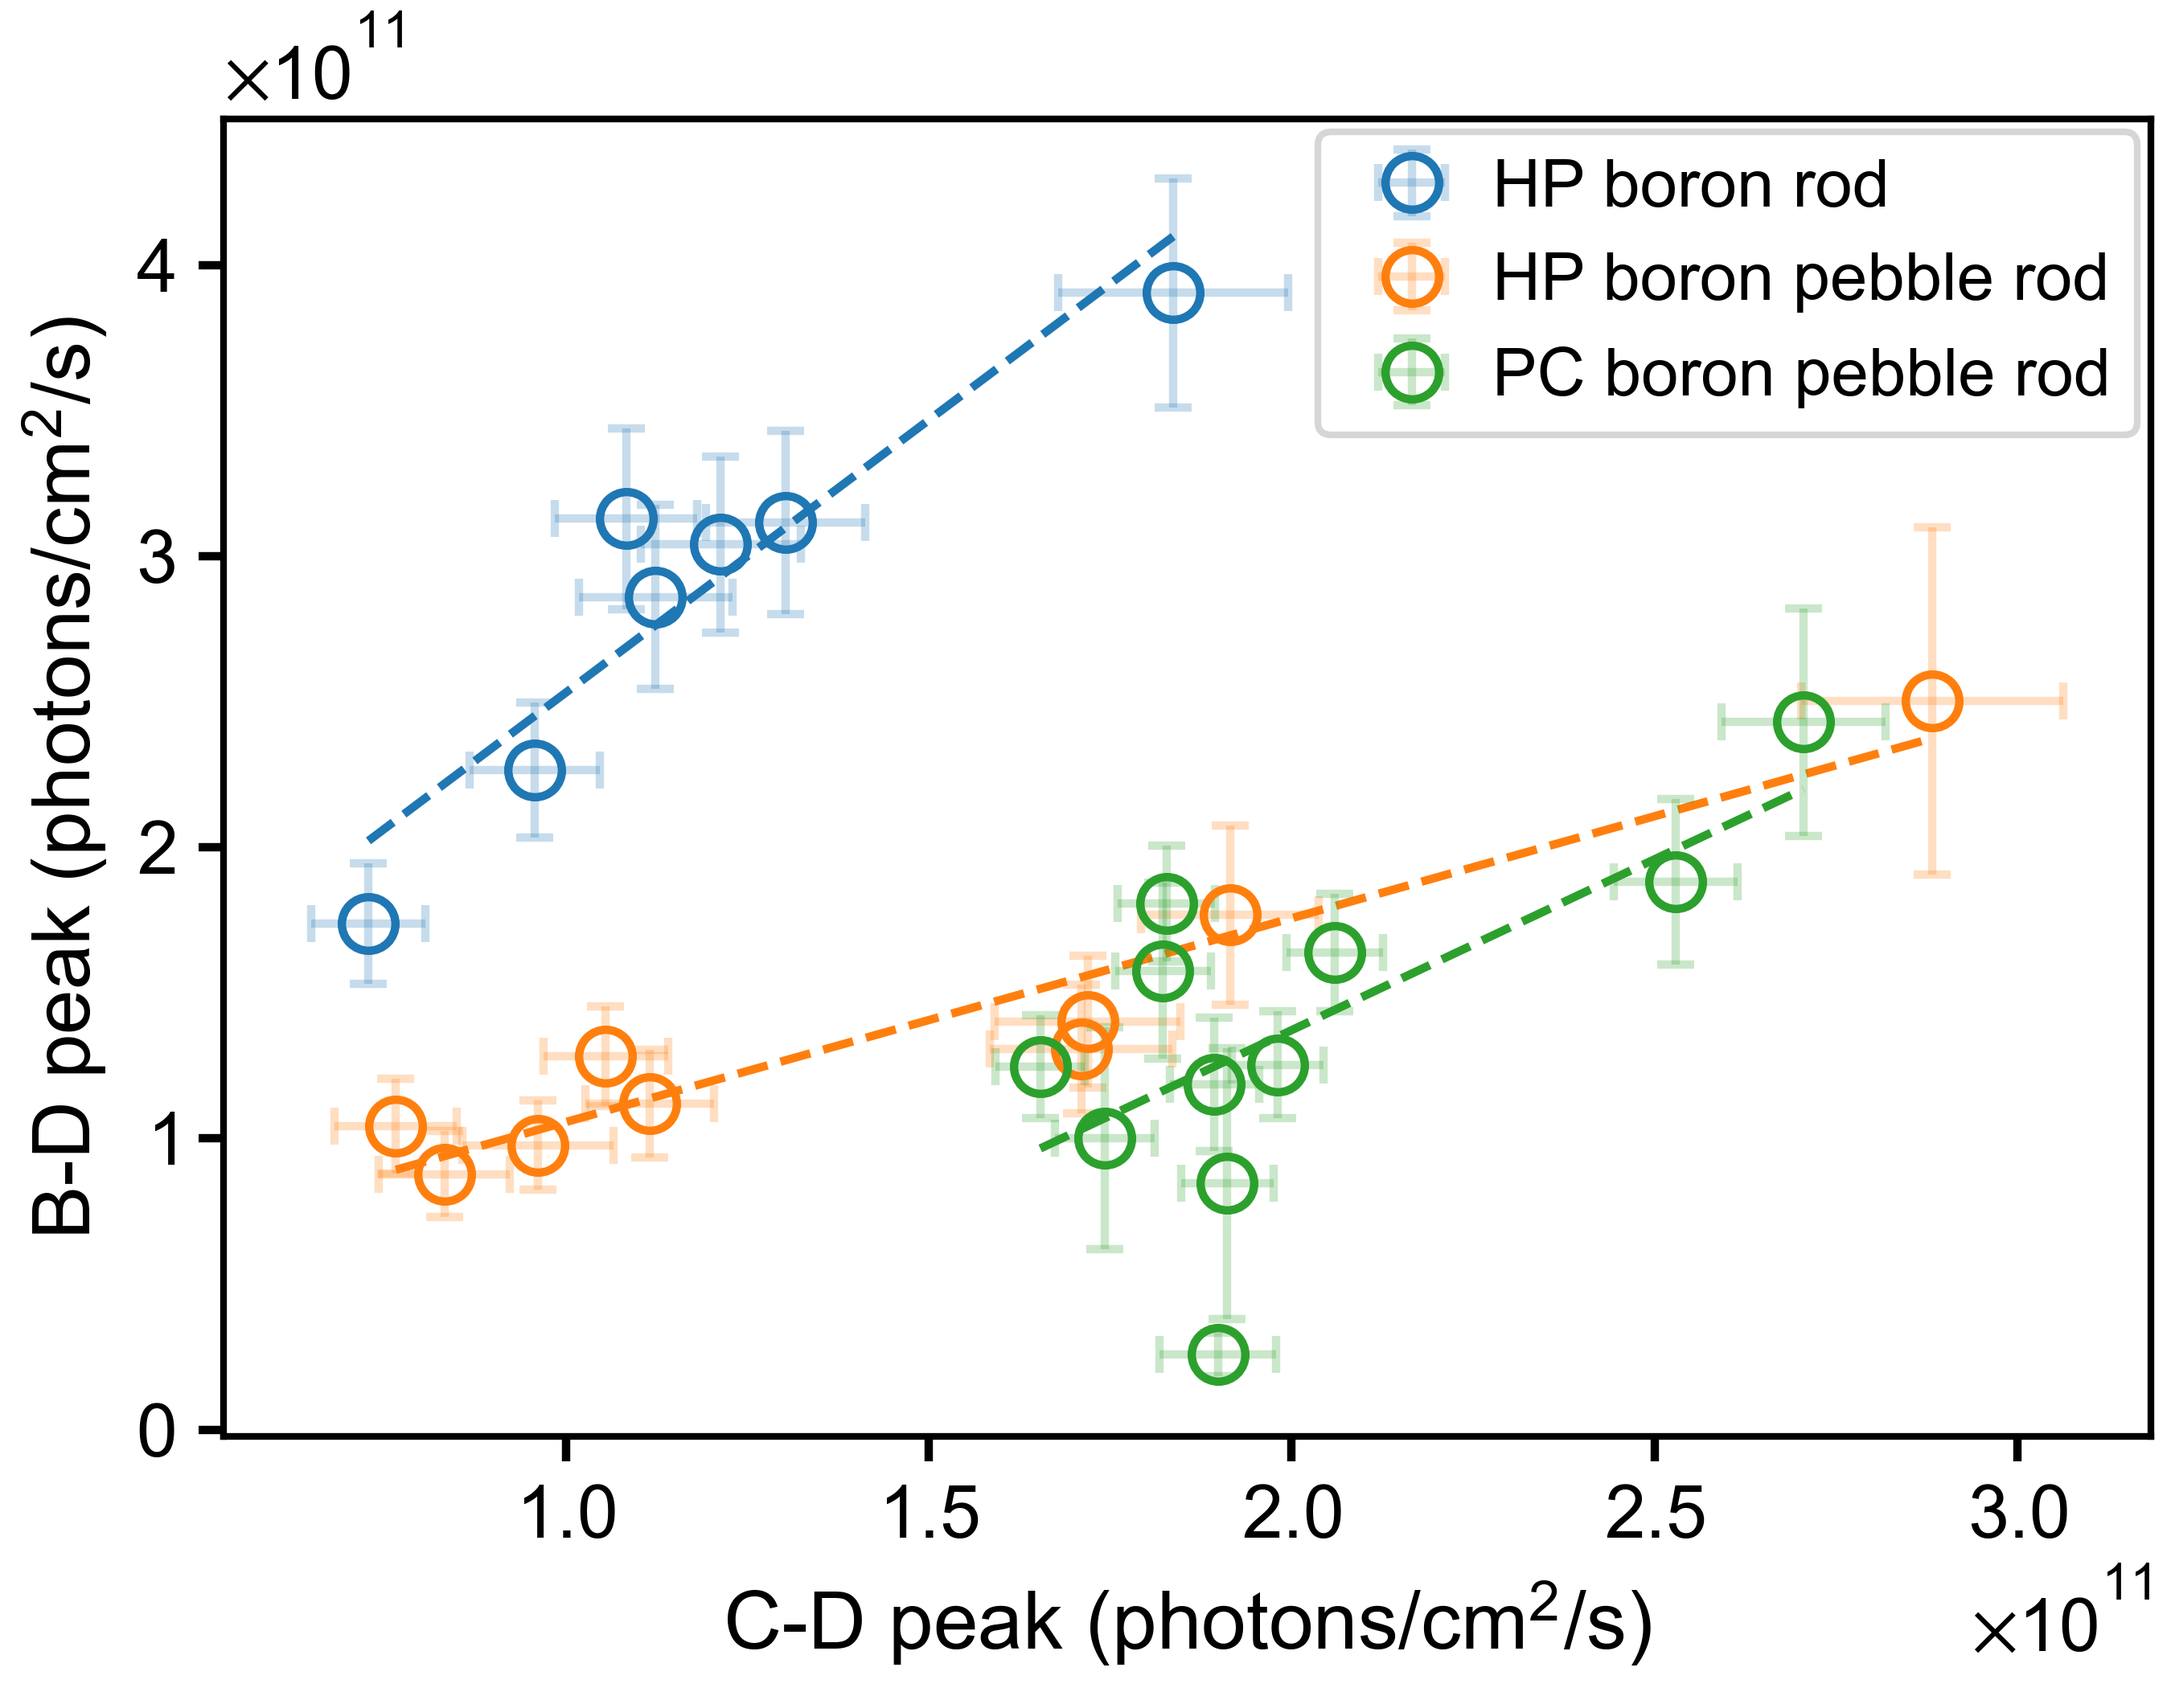
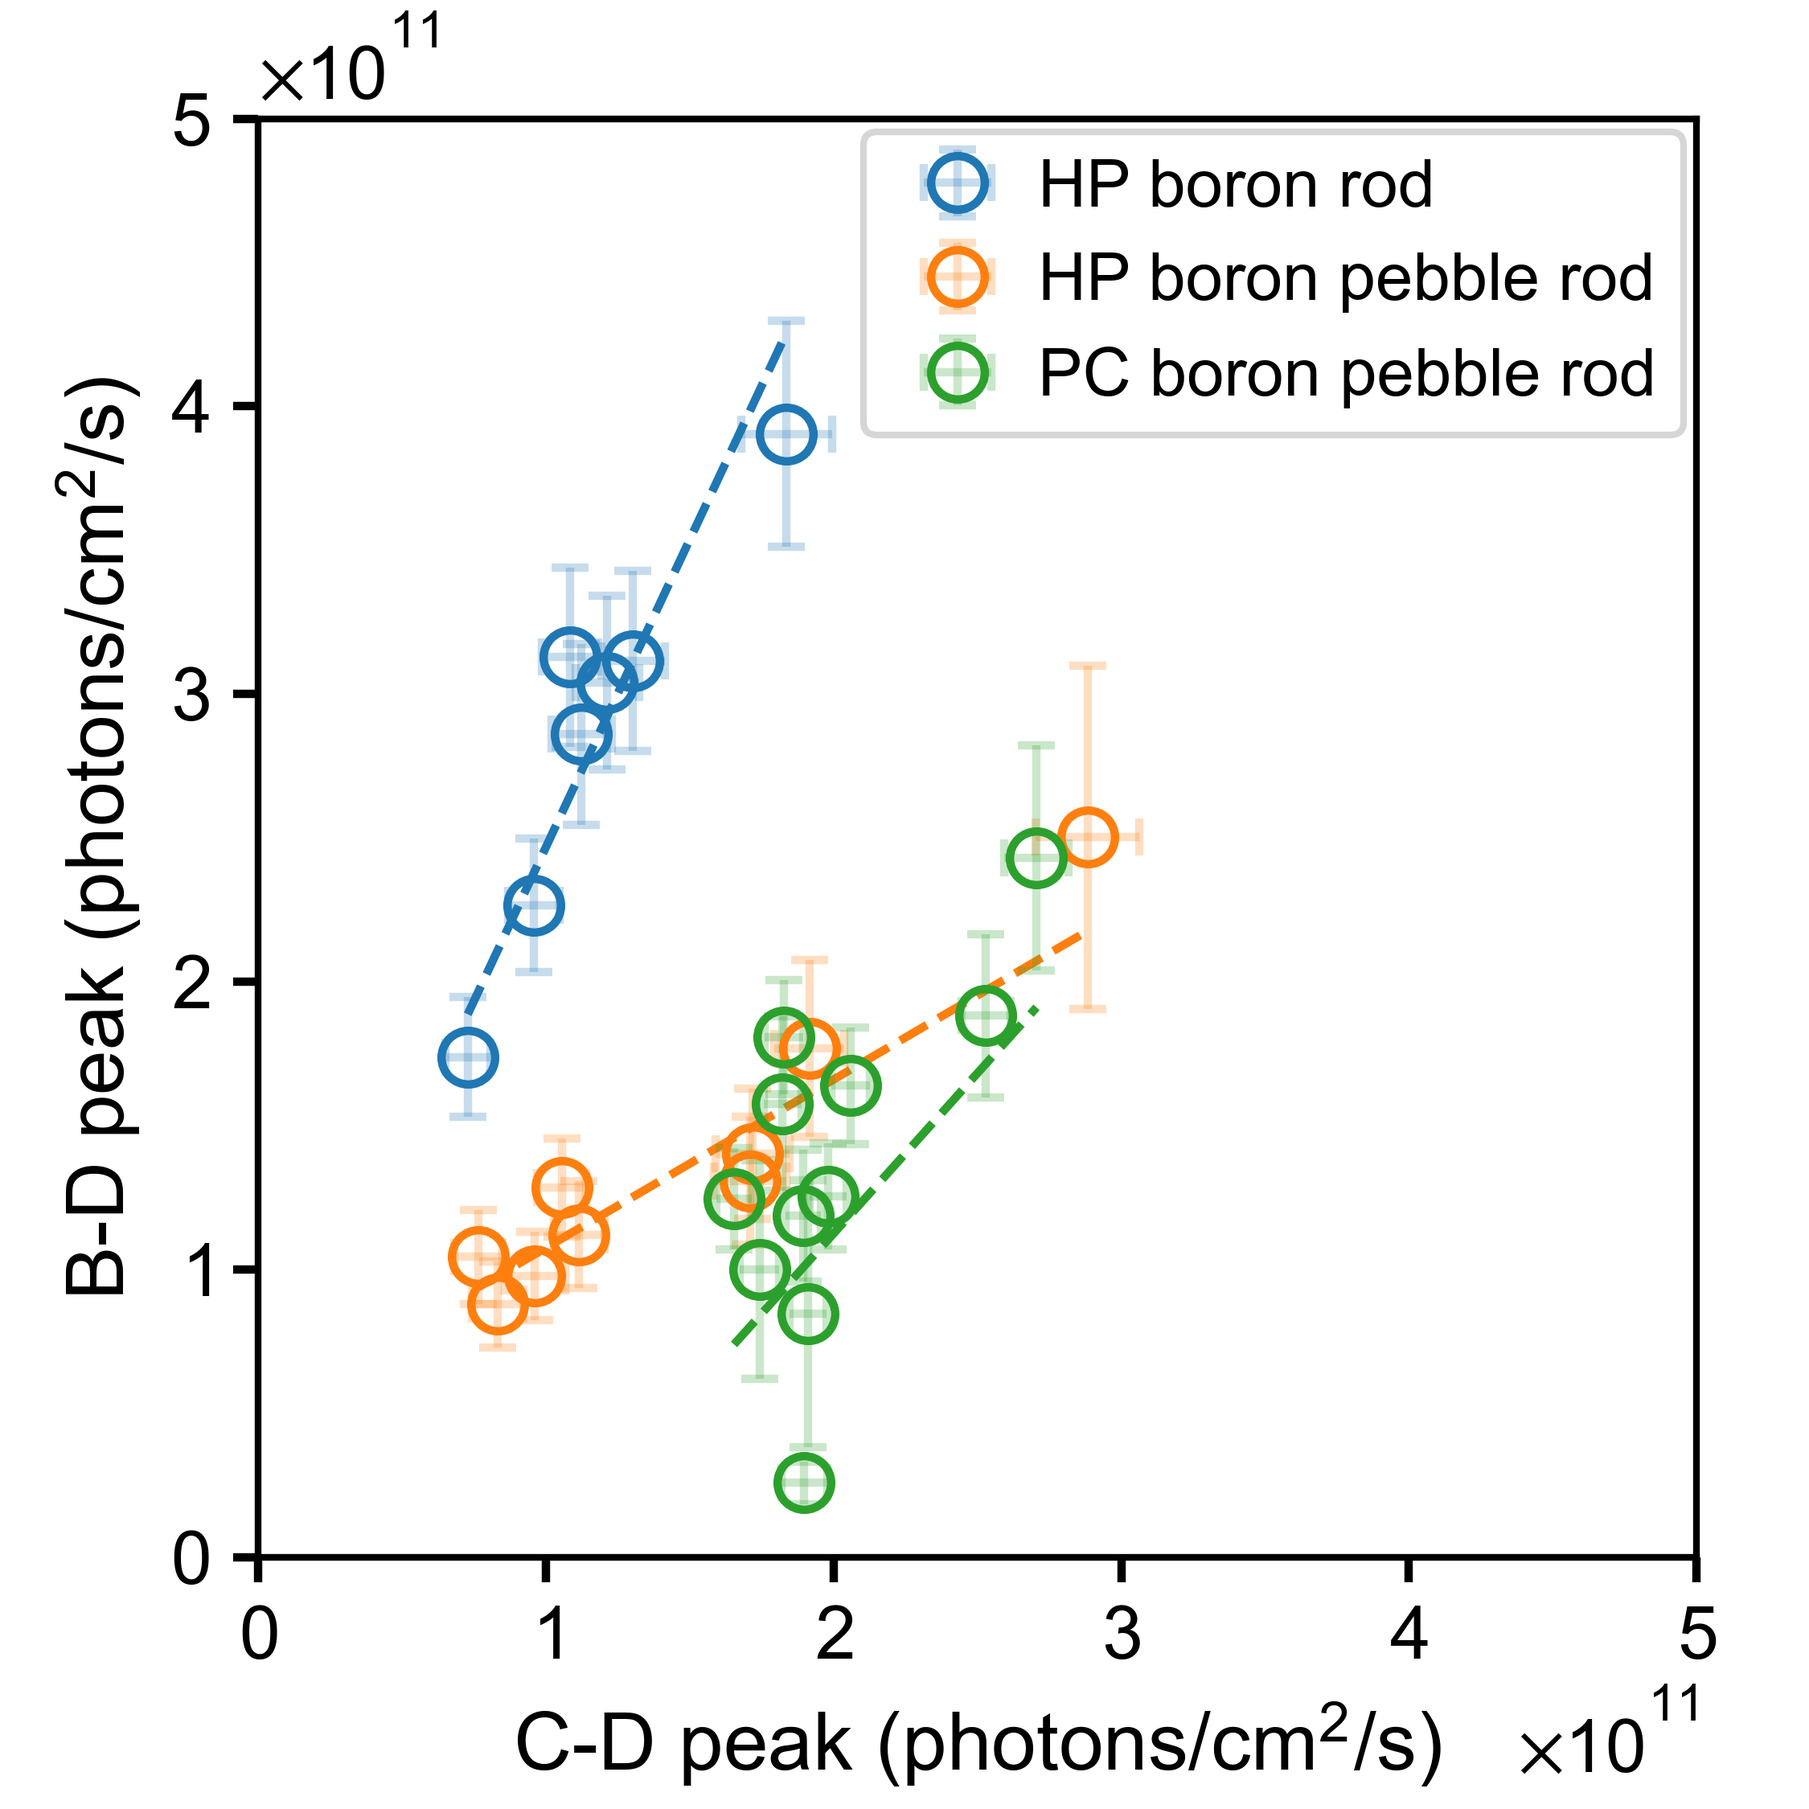
cd_bd_aspect_ratio

Changed region(s): [[0.0, 0.0, 0.9956, 0.9905], [0.2178, 0.0, 0.2489, 0.031]]

diff --git a/data_processing/2024/OES/plot_cd_vs_bd.py b/data_processing/2024/OES/plot_cd_vs_bd.py
@@ -83,7 +83,7 @@ def main():
 
     load_plot_style()
     fig, ax = plt.subplots(nrows=1, ncols=1, constrained_layout=True)
-    fig.set_size_inches(4.5, 3.5)
+    fig.set_size_inches(3.75, 3.75)
 
     all_tol = float(np.finfo(np.float64).eps)
 
@@ -105,7 +105,7 @@ def main():
         ls_res = least_squares(
             res_poly,
             x0=[1., 1.],
-            args=(x, y),
+            args=(x, y, w),
             # loss='soft_l1', f_scale=0.1,
             jac=jac_poly,
             xtol=all_tol,
@@ -143,7 +143,10 @@ def main():
     ax.xaxis.set_major_formatter(mf)
     ax.yaxis.set_major_formatter(mf)
     ax.ticklabel_format(useMathText=True)
-    ax.legend(loc='upper right', frameon=True, fontsize=10)
+    ax.legend(loc='upper right', frameon=True, fontsize=10, ncols=1)
+    ax.set_xlim(0, 5E11)
+    ax.set_ylim(0, 5E11)
+    ax.set_aspect('equal')
     fig.savefig(r'./figures/CD_vs_BD.png', dpi=600)
 
     plt.show()
